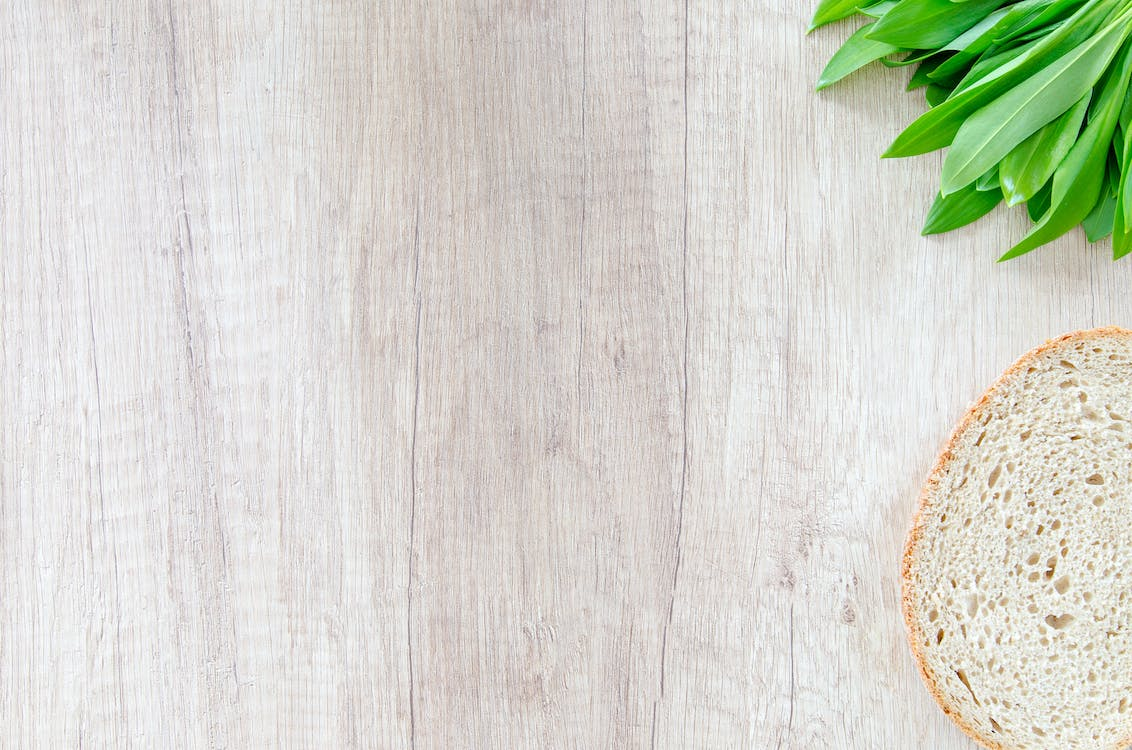
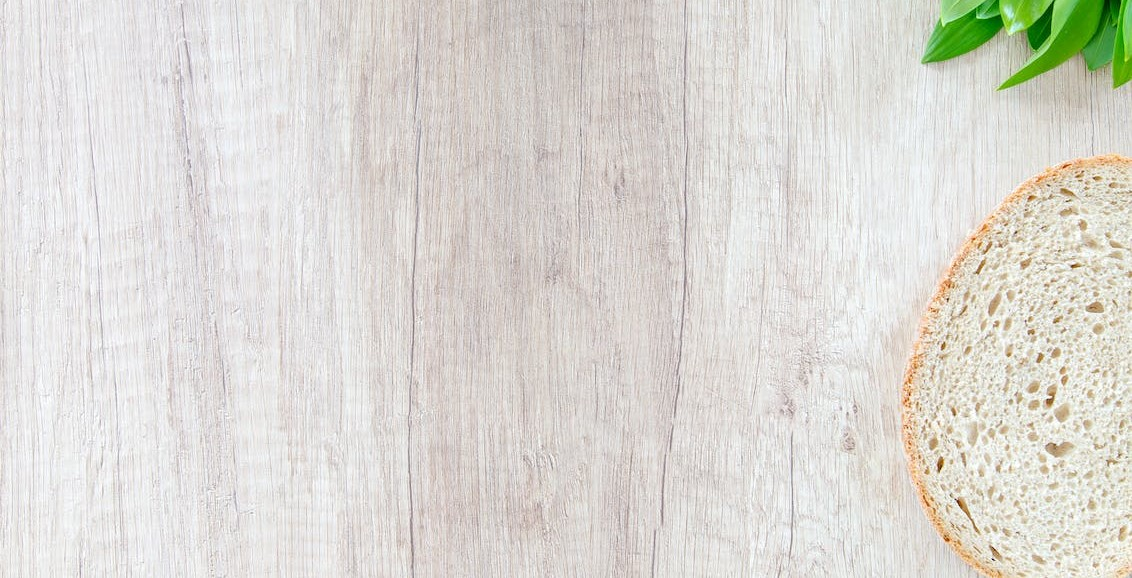
add styles.css

diff --git a/index.html b/index.html
@@ -1,41 +1,53 @@
 <!DOCTYPE html>
 <html lang="en">
-	<div class = "header">
-		<img src="assets/img/fork-knife.png" width = "50" alt="fork and knife logo">
-		<h1>
-			Recipes on Hand
-		</h1>
-		<span>
-			<a href="index.html">Home</a>|
-			<a href="html/recipes-list.html">Recipes</a>|
-			<a href="html/ingredients-list.html">Ingredients</a>|
-			<a href="html/discussion.html">Discussion</a>|
-			<a href="html/about-us.html">About Us</a>|
-			<a href="html/contact.html">Contact</a>
-		</span>
+	<head>
+		<link rel="stylesheet" href="styles/styles.css">
+	</head>
+	<div class = "backgroundImg">
+		<div class = "header">
+			<a href="index.html">
+				<div class = "mainLogo">
+					<img src="assets/img/fork-knife.png" width = "50" alt="fork and knife logo">
+					<h1>
+						Recipes on Hand
+					</h1>
+				</div>
+			</a>
+			<div class = "linkBar">
+				<span>
+					<a href="index.html">Home</a>
+					<a href="html/recipes-list.html">Recipes</a>
+					<a href="html/ingredients-list.html">Ingredients</a>
+					<a href="html/discussion.html">Discussion</a>
+					<a href="html/about-us.html">About Us</a>
+					<a href="html/contact.html">Contact</a>
+				</span>
+				
+			</div>
+		</div>
+		<div class = "hook">
+			<p>
+				<span>
+					<a href="https://www.pexels.com/photo/sliced-bread-on-brown-wooden-board-349610/">Sliced Bread on Brown Wooden Board From Lukas, 2017, pexels.com </a>
+				</span>
+			</p>
+			<h2>
+				Your recipes with your ingredients!
+			</h2>
+			<p>
+				Save the trip to the grocery store! Get healthy and high-quality recipes using the ingredients you have on hand. Specify any dietary restrictions or preferences to find meals that cater to your tastes and pushes you towards your goal. Sign up now!
+			</p>
+			<button>
+				<a href="html/recipes-list.html">View Recipes</a>
+			</button>
+			<button>
+				<a href="html/about-us.html">About Us</a>
+			</button>
+		</div>
 	</div>
-	<div class = "hook">
-		<img src="assets/img/white-bread-on-brown-wooden-board.jpeg" width = "200" alt="background image">
-		<p>
-			<span>
-				<a href="https://www.pexels.com/photo/sliced-bread-on-brown-wooden-board-349610/">Sliced Bread on Brown Wooden Board From Lukas, 2017, pexels.com </a>
-			</span>
-		</p>
-		<h2>
-			Your recipes with your ingredients!
-		</h2>
-		<p>
-			Save the trip to the grocery store! Get healthy and high-quality recipes using the ingredients you have on hand. Specify any dietary restrictions or preferences to find meals that cater to your tastes and pushes you towards your goal. Sign up now!
-		</p>
-		<button>
-			<a href="html/recipes-list.html">View Recipes</a>
-		</button>
-		<button>
-			<a href="html/about-us.html">About Us</a>
-		</button>
-	</div>
+	
 	<hr>
-	<div class = "register">
+	<form class = "register">
 		<h3>
 		Sign Up
 		</h3>
@@ -63,9 +75,9 @@
 		<p>
 			By clicking the Sign Up button, you agree to our <a href = "html/terms-and-conditions.html">Terms and Conditions</a> and <a href = "html/privacy-policy.html">Privacy Policy</a>
 		</p>
-	</div>
+	</form>
 	<hr>
-	<div class = "signin">
+	<form class = "signin">
 		<h3>
 		Sign In
 		</h3>
@@ -82,7 +94,7 @@
 				Sign In
 			</button>
 		</p>
-	</div>
+	</form>
 	<hr>
 	<div class = "popular">
 		<h2>
@@ -136,7 +148,7 @@
 		</div>
 	</div>
 	<hr>
-	<div class = "newsletter">
+	<form class = "newsletter">
 		<h3>
 			Get in Touch
 		</h3>
@@ -146,7 +158,7 @@
 		<input type="text" value="Email address">
 		<input type="text" value="Full name">
 		<button> Join </button>
-	</div>
+	</form>
 	<hr>
 	<div class = "footer">
 		<span>

diff --git a/styles/styles.css b/styles/styles.css
@@ -1,0 +1,88 @@
+body {
+    font-family: 'Trebuchet MS', 'Lucida Sans Unicode', 'Lucida Grande', 'Lucida Sans', Arial, sans-serif;
+    margin:0;
+}
+
+div{
+    margin:8px;
+    padding:10px;
+}
+
+form{
+    margin:8px;
+    padding:10px;
+}
+.header {
+    overflow: hidden;
+    display:flex;
+    justify-content:space-between;
+    padding: 30px 10px;
+    margin:0;
+}
+
+.linkBar{
+    display: inline-block;
+    margin-left:auto;
+    margin-right:0;
+}
+.backgroundImg{
+    background: url("../assets/img/white-bread-on-brown-wooden-board.jpeg");
+    background-size: cover;
+    background-repeat: no-repeat;
+    border: 0;
+    box-sizing: border-box;
+    margin: 0;
+    padding: 0;
+    height:100%;
+}
+.linkBar a{
+  text-align: right;
+  text-decoration: none;
+  font-size: 17px;
+  color: black;
+  font-family:'Trebuchet MS', 'Lucida Sans Unicode', 'Lucida Grande', 'Lucida Sans', Arial, sans-serif;
+  height: 100%;
+  margin:0%;
+  vertical-align:middle;    
+  padding: 15px 20px;    
+}
+
+.linkBar a:hover {
+  background-color: #ddd;
+  color: black;
+  vertical-align:middle;  
+  height: 100%;
+}
+
+.mainLogo{
+    display: inline-block;
+}
+
+.mainLogo:hover{
+    transition: .3s ease all;
+    transform: translateY(-5px);
+}
+.mainLogo h1{
+	width: 200px;
+	color: #444444;
+	font-family: 'Trebuchet MS', 'Lucida Sans Unicode', 'Lucida Grande', 'Lucida Sans', Arial, sans-serif;
+	font-weight: bold;
+	font-size: 22px;
+	text-align: left;
+    display: inline-block;
+    margin:0%;
+    height:100%;
+    vertical-align:middle;
+    
+    
+}
+.mainLogo img {
+	width: 24px;
+    display: inline-block;
+    height:100%;
+    vertical-align: middle;
+}
+
+.hook{
+    width:50%;
+}

diff --git a/html/discussion.html b/html/discussion.html
@@ -19,9 +19,9 @@
 		<h2>
 			Discussion
 		</h2>
-		<div class = "discussionInput">
+		<form class = "discussionInput">
 			<span>
-				<div class = discussionImg">
+				<div class = "discussionImg">
 					<img src="../assets/img/avatar.png" width = "30" alt = "avatar profile">
 					<input value="Enter a title..."></input>
 					<p>
@@ -31,7 +31,7 @@
 					<button>Post</button>
 				</div>
 			</span>
-		</div>
+		</form>
 		<hr>
 		<div class = "discussionComments">
 			<div class = "discussionRow">

diff --git a/html/recipe-page.html b/html/recipe-page.html
@@ -267,9 +267,9 @@
 		
 	</div>
 	<hr>
-	<div class = "discussionInput">
+	<form class = "discussionInput">
 		<span>
-			<div class = discussionImg">
+			<div class = "discussionImg">
 				<img src="../assets/img/avatar.png" width = "30" alt = "avatar profile">
 				<input value="Enter a comment..."></input>
 				<button>Post</button>
@@ -277,7 +277,7 @@
 				
 	
 		</span>
-	</div>
+	</form>
 	<hr>
 	<button>Filter</button>
 	<div class = "discussionComments">

diff --git a/html/contact.html b/html/contact.html
@@ -15,7 +15,7 @@
 		</span>
 	</div>
 	<hr>
-	<div class = "contact">
+	<form class = "contact">
 		<h2>
 			Contact
 		</h2>
@@ -30,7 +30,7 @@
 			<input input type = "text" value = "Message">
 		</p>
 		<button>Send</button>
-	</div>
+	</form>
 	<br>
 	<hr>
 	<div class = "footer">
